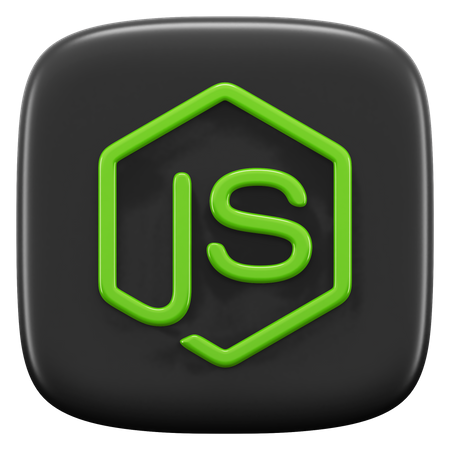
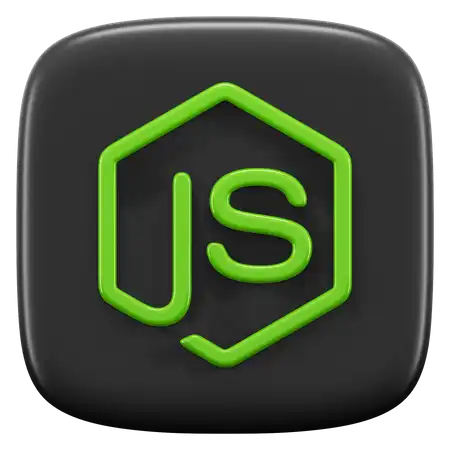
optimize the images

diff --git a/index.html b/index.html
@@ -88,7 +88,7 @@
         class="flex flex-col lg:flex-row items-center justify-center -mt-6 md:-mt-14 px-4 md:px-8 lg:ms-32 relative"
       >
       <img
-      src="./Images/effectThing.png"
+      src="./Images/effectThing.webp"
       alt="Hero Background"
       class="absolute top-0 left-0 w-screen max-w-full h-full object-cover z-0" style="opacity: var(--opacity);"
     />
@@ -118,23 +118,23 @@
         <div class="right-section w-full lg:w-1/2 flex justify-center relative mt-8 lg:mt-0" id="right-side">
           <!-- Background Image -->
           <img
-            src="./Images/Ellipse 1.png"
+            src="./Images/Ellipse 1.webp"
             alt="Background"
             class="big-circle-1 absolute w-48 md:w-[350px] h-auto top-32 rounded-lg opacity-100 transform scale-110 animate-fade-in"
           />
           <img
-            src="./Images/Ellipse 2.png"
+            src="./Images/Ellipse 2.webp"
             alt="Background"
             class="big-circle-2 absolute w-10 md:w-[50px] h-auto top-[420px] left-[120px] right-10 md:right-[580px] rounded-lg opacity-100 transform scale-110 animate-fade-in"
           />
           <img
-            src="./Images/Ellipse 3.png"
+            src="./Images/Ellipse 3.webp"
             alt="Background"
             class="big-circle-3 absolute w-5 md:w-[20px] h-auto top-[480px] left-[180px] right-8 md:right-[550px] opacity-100 transform scale-110 animate-fade-in"
           />
           <!-- Foreground Image -->
           <img
-            src="./Images/homepageimage.png"
+            src="./Images/homepageimage.avif"
             alt="Frontend Developer"
             class="relative w-64 sm:w-96 md:w-[700px] h-auto rounded-lg transform transition duration-1000 ease-in-out hover:scale-105 opacity-100 animate-fade-in"
           />
@@ -144,12 +144,12 @@
       <!-- about section -->
       <section id="about" class="px-4 sm:px-8 md:px-20 lg:px-40 py-8 sm:py-12 md:py-16 mt-16 md:mt-36 mb-8 md:mb-16 relative">
         <img
-        src="./Images/effectThing.png"
+        src="./Images/effectThing.webp"
         alt="Hero Background"
         class="absolute top-0 left-0 w-screen max-w-full h-full object-cover z-0" style="opacity: var(--opacity);"
       />
         <img
-        src="./Images/effectThing.png"
+        src="./Images/effectThing.webp"
         alt="Hero Background"
         class="absolute top-0 left-0 w-screen max-w-full h-full object-cover z-0" style="opacity: var(--opacity);"
       />
@@ -165,7 +165,7 @@
           <!-- Left Side: Text Content -->
           <div class="w-1/2 relative">
             <img
-            src="./Images/borderLine.png"
+            src="./Images/borderLine.webp"
             alt="Background"
             class="border-line-1 absolute -top-12 -left-6 w-[280px] h-full object-cover opacity-80 z-0" style="filter: var(--borderLine-filter);"
           />
@@ -180,7 +180,7 @@
           <!-- Right Side: Image -->
           <div class="w-1/2 flex justify-center">
             <img
-              src="./Images/about1st.png"
+              src="./Images/about1st.webp"
               alt="About Me"
               class="w-[350px] h-auto rounded-lg transform transition duration-500 ease-in-out hover:scale-105"
             />
@@ -195,7 +195,7 @@
           <!-- Right Side: Text Content -->
           <div class="w-1/2 relative">
             <img
-            src="./Images/borderLine.png"
+            src="./Images/borderLine.webp"
             alt="Background"
             class="border-line-1 absolute -top-12 -left-6 w-[280px] h-full object-cover opacity-80 z-0" style="filter: var(--borderLine-filter);"
           />
@@ -210,22 +210,22 @@
           <div class="skills-section w-1/2">
             <div class="skills-container flex flex-wrap justify-center w-100 ms-32">
               <img
-                src="./Images/html.png"
+                src="./Images/html.webp"
                 alt="HTML"
                 class="skills-image w-20 h-16 object-contain rounded-full transform transition duration-500 ease-in-out hover:scale-105"
               />
               <img
-                src="./Images/css.png"
+                src="./Images/css.webp"
                 alt="CSS"
                 class="skills-image w-16 h-16 object-contain rounded-full transform transition duration-500 ease-in-out hover:scale-105"
               />
               <img
-                src="./Images/javascript.png"
+                src="./Images/javascript.webp"
                 alt="JavaScript"
                 class="skills-image w-20 h-16 object-contain rounded-full transform transition duration-500 ease-in-out hover:scale-105"
               />
               <img
-                src="./Images/react.png"
+                src="./Images/react.webp"
                 alt="React"
                 class="skills-image w-20 h-16 object-contain rounded-full transform transition duration-500 ease-in-out hover:scale-105"
               />
@@ -235,7 +235,7 @@
                 class="skills-image w-20 h-16 object-contain rounded-full transform transition duration-500 ease-in-out hover:scale-105"
               />
               <img
-                src="./Images/mysql.png"
+                src="./Images/mysql.webp"
                 alt="MySQL"
                 class="skills-image w-20 h-16 object-contain rounded-full transform transition duration-500 ease-in-out hover:scale-105"
               />
@@ -276,7 +276,7 @@
           <!-- Left Side: Text Content -->
           <div class="w-1/2 relative">
             <img
-            src="./Images/borderLine.png"
+            src="./Images/borderLine.webp"
             alt="Background"
             class="border-line-1 absolute -top-12 -left-6 w-[280px] h-full object-cover opacity-80 z-0" style="filter: var(--borderLine-filter);"
           />
@@ -289,7 +289,7 @@
           <!-- Right Side: Image -->
           <div class="w-1/2 flex justify-center">
             <img
-              src="./Images//experienceimage.png"
+              src="./Images//experienceimage.webp"
               alt="My Experience"
               class="w-[400px] h-auto rounded-lg transform transition duration-500 ease-in-out hover:scale-105"
             />
@@ -304,7 +304,7 @@
           <!-- Right Side: Text Content -->
           <div class="w-1/2 relative">
             <img
-            src="./Images/borderLine.png"
+            src="./Images/borderLine.webp"
             alt="Background"
             class="border-line-1 absolute -top-13 -left-6 w-[280px] h-full object-cover opacity-80 z-0" style="filter: var(--borderLine-filter);"
           />
@@ -318,7 +318,7 @@
           <!-- Left Side: Image -->
           <div class="w-1/2 flex justify-center">
             <img
-              src="./Images//projects.png"
+              src="./Images//projects.webp"
               alt="My Projects"
               class="w-[400px] h-auto rounded-lg transform transition duration-500 ease-in-out hover:scale-105"
             />
@@ -333,7 +333,7 @@
           <!-- Left Side: Text Content -->
           <div class="w-1/2 relative">
             <img
-            src="./Images/borderLine.png"
+            src="./Images/borderLine.webp"
             alt="Background"
             class="border-line-1 absolute -top-10 -left-6 w-[280px] h-full object-cover opacity-80 z-0" style="filter: var(--borderLine-filter);"
           />
@@ -347,7 +347,7 @@
           <!-- Right Side: Image -->
           <div class="w-1/2 flex justify-center">
             <img
-              src="./Images/visionimage.png"
+              src="./Images/visionimage.webp"
               alt="My Vision"
               class="w-[400px] h-auto rounded-lg transform transition duration-500 ease-in-out hover:scale-105"
             />
@@ -362,7 +362,7 @@
           <!-- Right Side: Text Content -->
           <div class="w-1/2 relative">
             <img
-            src="./Images/borderLine.png"
+            src="./Images/borderLine.webp"
             alt="Background"
             class="border-line-1 absolute -top-10 -left-6 w-[280px] h-full object-cover opacity-80 z-0" style="filter: var(--borderLine-filter);"
           />
@@ -376,7 +376,7 @@
           <!-- Left Side: Image -->
           <div class="w-1/2 flex justify-center">
             <img
-              src="./Images//goalimage.png"
+              src="./Images//goalimage.webp"
               alt="My Goals"
               class="w-[500px] h-auto bg-transparent rounded-lg transform transition duration-500 ease-in-out hover:scale-105"
             />
@@ -387,7 +387,7 @@
       <!-- projects section -->
       <section id="projects" class="px-4 sm:px-8 md:px-20 lg:px-40 py-8 sm:py-12 md:py-16 relative">
         <img
-          src="./Images/effectThing.png"
+          src="./Images/effectThing.webp"
           alt="Hero Background"
           class="absolute top-0 left-0 w-screen max-w-full h-full object-cover z-0" style="opacity: var(--opacity);"
         />
@@ -401,7 +401,7 @@
           <!-- Project Image -->
           <div class="w-full lg:w-1/2">
             <img
-              src="./Images/CryptoTrack.png"
+              src="./Images/CryptoTrack.webp"
               alt="CryptoTrack"
               class="project-image w-[500px] relative left-20 rounded-lg shadow-lg transform transition duration-500 hover:scale-105"
             />
@@ -445,7 +445,7 @@
           <!-- Project Image -->
           <div class="w-full lg:w-1/2">
             <img
-              src="./Images/Go-Chat-Ai.png"
+              src="./Images/Go-Chat-Ai.webp"
               alt="E-Commerce Platform"
               class="project-image w-[500px] relative -right-32 shadow-lg transform transition duration-500 hover:scale-105"
             />
@@ -489,7 +489,7 @@
           <!-- Project Image -->
           <div class="w-full lg:w-1/2">
             <img
-              src="./Images/watchTime.png"
+              src="./Images/watchTime.webp"
               alt="youtube clone"
               class="project-image w-[500px] relative left-20 rounded-lg shadow-lg transform transition duration-500 hover:scale-105"
             />
@@ -536,7 +536,7 @@
           <!-- Project Image -->
           <div class="w-full lg:w-1/2">
             <img
-              src="./Images/portfolio.png"
+              src="./Images/portfolio.webp"
               alt="E-Commerce Platform"
               class="project-image w-[500px] relative -right-32 shadow-lg transform transition duration-500 hover:scale-105"
             />
@@ -579,7 +579,7 @@
           <!-- Project Image -->
           <div class="w-full lg:w-1/2">
             <img
-              src="./Images/todolist.png"
+              src="./Images/todolist.webp"
               alt="E-Commerce Platform"
               class="project-image w-[500px] relative -right-32 shadow-lg transform transition duration-500 hover:scale-105"
             />
@@ -622,7 +622,7 @@
           <!-- Project Image -->
           <div class="w-full lg:w-1/2">
             <img
-              src="./Images/calculator.png"
+              src="./Images/calculator.webp"
               alt="CryptoTrack"
               class="project-image w-[500px] relative left-20 rounded-lg shadow-lg transform transition duration-500 hover:scale-105"
             />
@@ -666,7 +666,7 @@
           <!-- Project Image -->
           <div class="w-full lg:w-1/2">
             <img
-              src="./Images/weather.png"
+              src="./Images/weather.webp"
               alt="E-Commerce Platform"
               class="project-image w-[500px] relative -right-32 shadow-lg transform transition duration-500 hover:scale-105"
             />
@@ -769,7 +769,7 @@
       <!-- Contact Section -->
       <section id="contact" class="px-4 sm:px-8 md:px-20 lg:px-40 py-8 sm:py-12 md:py-16 relative">
         <img
-        src="./Images/effectThing.png"
+        src="./Images/effectThing.webp"
         alt="Hero Background"
         class="absolute top-0 left-0 w-screen max-w-full h-full object-cover z-0" style="opacity: var(--opacity);"
       />

diff --git a/index.js b/index.js
@@ -213,6 +213,3 @@ document.addEventListener("DOMContentLoaded", () => {
   });
 });
 
-
-
-
